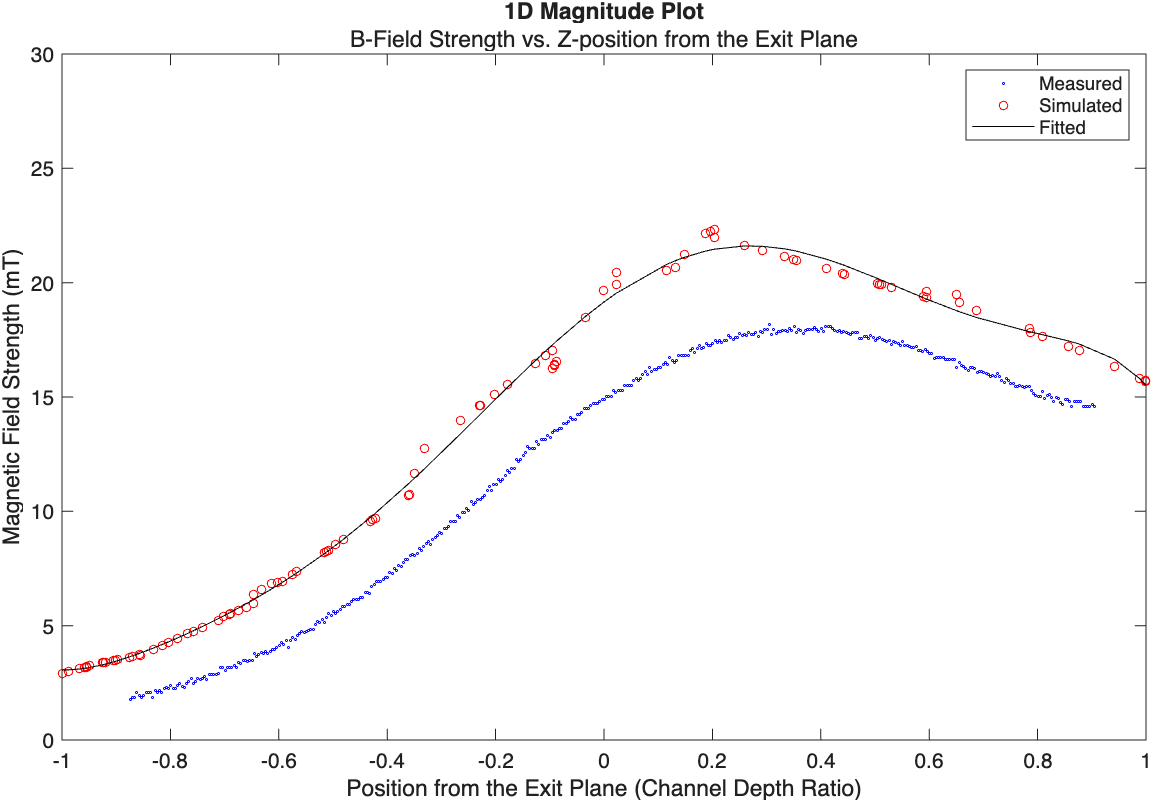
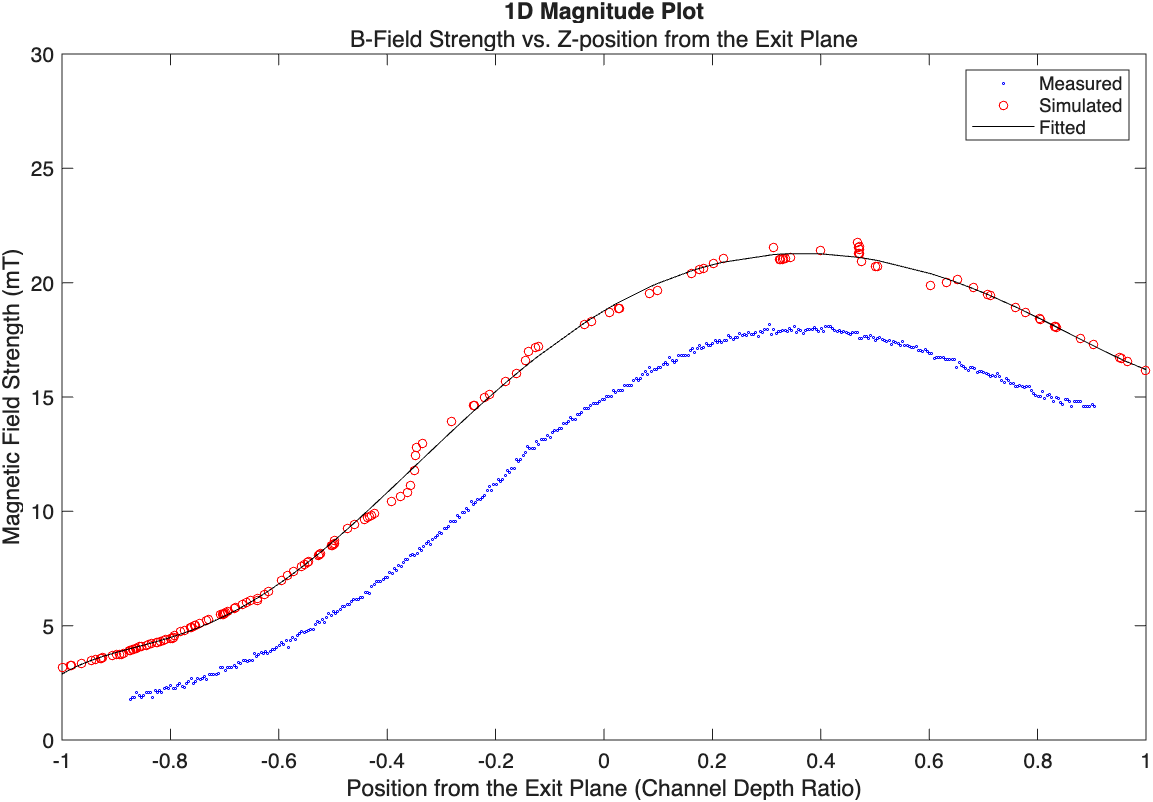
edit 6/17 plots with measured BH curve data

diff --git a/datasets/mk.iv-2_6:17:26/csv files/mk_iv2_06_17_2026.m b/datasets/mk.iv-2_6:17:26/csv files/mk_iv2_06_17_2026.m
@@ -75,12 +75,12 @@ end
 data_matrix_cleaned = data_matrix(1:5:14590,:);
 
 % COMSOL 1D data to overlay with measured results
-comsol_1D = readmatrix("comsol_1D.txt"); % EDIT WITH FILE NAME
+comsol_1D = readmatrix("COMSOL_1D.txt"); % EDIT WITH FILE NAME
 % transform raw COMSOL data to the ideal reference frame (exit plane = 0)
 mag_sim_z = (comsol_1D(:, 1) * -1 * 1000 + 10)/channel_depth; % EDIT IF NEEDED, BASED ON RAW DATA
 
 % curve fitting to get a continuous polynomial to represent the simulation
-fitted_z = polyfit(mag_sim_z, comsol_1D(:, 2), 7);
+fitted_z = polyfit(mag_sim_z, comsol_1D(:, 2)*1000, 7); % scale data to mT, not T
 fitted_model = polyval(fitted_z, mag_sim_z);
 % UNCOMMENT LINE BELOW TO TEST WHICH POLYNOMIAL ORDER FITS BEST
 %residual = mape(comsol_1D(:, 2), fitted_model)
@@ -96,7 +96,7 @@ mid_column = round((mid_column_position + (dist_from_chipx * -1) + wall_offset)/
 % plot simulated data, fitted curve, and measured data
 plot(positions_data{1, mid_column}(:, 2), b_field_data{1, mid_column}(:, 4), 'bo', 'MarkerSize', 1)
 hold on;
-plot(mag_sim_z, comsol_1D(:, 2), 'ro', 'MarkerSize', 4)
+plot(mag_sim_z, comsol_1D(:, 2)*1000, 'ro', 'MarkerSize', 4)
 plot(mag_sim_z, fitted_model, 'k')
 title('1D Magnitude Plot')
 subtitle('B-Field Strength vs. Z-position from the Exit Plane')